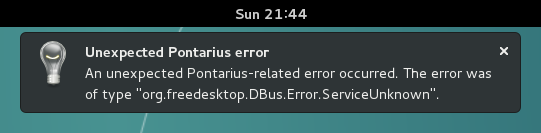
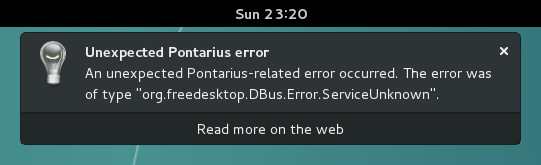
Add the possibility to open a web URL in the notification

diff --git a/extension/extension.js b/extension/extension.js
@@ -50,6 +50,9 @@ function enable() {
         // TODO: Catch notification proxy creation error.
         function (notifications) {
             _notifications = notifications;
+
+            _notifications.connectSignal('ActionInvoked', _onActionInvoked);
+
             // Initialize Pontarius D-Bus interface.
             // TODO: Catch notification proxy creation error.
             const PontariusInterface = '<node name="pontarius"><interface name="org.pontarius"><method name="addPeer"><arg name="jid" type="s" direction="in"/></method><method name="createIdentity"><arg name="key_id" type="ay" direction="out"/></method><method name="getContactIdentities"><arg name="contact" type="s" direction="in"/><arg name="identities" type="a{sas}" direction="out"/></method><method name="getContactPeers"><arg name="contact" type="s" direction="in"/><arg name="peers" type="a{sa{ss}}" direction="out"/></method><method name="getContacts"><arg name="contacts" type="a((ss)b)" direction="out"/></method><method name="getCredentials"><arg name="username" type="s" direction="out"/></method><method name="getIdentities"><arg name="identities" type="as" direction="out"/></method><method name="getIdentityChallenges"><arg name="key_id" type="s" direction="in"/><arg name="challenges" type="a(ssbsssb)" direction="out"/></method><method name="getSessionsByIdentity"><arg name="jid" type="s" direction="in"/><arg name="sessions" type="a(ayssssuu)" direction="out"/></method><method name="getSessionsByJID"><arg name="jid" type="s" direction="in"/><arg name="sessions" type="a(ayssssuu)" direction="out"/></method><method name="keyTrustStatus"><arg name="key_id" type="s" direction="in"/><arg name="is_trusted" type="b" direction="out"/></method><method name="getUnlinkedPeers"><arg name="unlinkedPeers" type="a{ss}" direction="out"/></method><method name="initialize"><arg name="state" type="y" direction="out"/></method><method name="initiateChallenge"><arg name="peer" type="s" direction="in"/><arg name="question" type="s" direction="in"/><arg name="secret" type="s" direction="in"/></method><method name="linkIdentity"><arg name="identity" type="s" direction="in"/><arg name="contact" type="s" direction="in"/></method><method name="identityVerified"><arg name="key_id" type="s" direction="in"/><arg name="is_verified" type="b" direction="in"/></method><method name="newContact"><arg name="name" type="s" direction="in"/><arg name="contact_id" type="s" direction="out"/></method><method name="removeChallenge"><arg name="challenge_id" type="s" direction="in"/></method><method name="removeContacts"><arg name="contact" type="s" direction="in"/></method><method name="removePeer"><arg name="peer" type="s" direction="in"/></method><method name="renameContact"><arg name="contact" type="s" direction="in"/><arg name="name" type="s" direction="in"/></method><method name="respondChallenge"><arg name="peer" type="s" direction="in"/><arg name="secret" type="s" direction="in"/></method><method name="revokeIdentity"><arg name="key_id" type="s" direction="in"/></method><method name="setCredentials"><arg name="username" type="s" direction="in"/><arg name="password" type="s" direction="in"/></method><method name="setIdentity"><arg name="keyID" type="s" direction="in"/></method><method name="unlinkIdentity"><arg name="identity" type="s" direction="in"/></method><signal name="challengeResult"><arg name="peer" type="s"/><arg name="challenge_id" type="s"/><arg name="initiator" type="s"/><arg name="result" type="b"/></signal><signal name="contactRemoved"><arg name="contact" type="s"/></signal><signal name="contactRenamed"><arg name="contact" type="s"/><arg name="name" type="s"/></signal><signal name="contactStatusChanged"><arg name="contact" type="s"/><arg name="contact_name" type="s"/><arg name="status" type="y"/></signal><signal name="identityStatusChanged"><arg name="identity" type="s"/><arg name="peer" type="s"/><arg name="contact" type="s"/><arg name="status" type="y"/></signal><signal name="identityUnlinkedSignal"><arg name="identity" type="s"/></signal><signal name="peerTrustStatusChanged"><arg name="peer" type="s"/><arg name="trust_status" type="b"/></signal><signal name="receivedChallenge"><arg name="peer" type="s"/><arg name="question" type="s"/></signal><signal name="subscriptionRequest"><arg name="peer" type="s"/></signal><signal name="unlinkedIdentityStatusChanged"><arg name="identity" type="s"/><arg name="peer" type="s"/><arg name="status" type="y"/></signal><property name="Identity" type="s" access="read"/><property name="Status" type="y" access="read"/><property name="AccountEnabled" type="b" access="readwrite"/><property name="Username" type="s" access="read"/></interface></node>';
@@ -78,20 +81,28 @@ function _onStatusChanged(result, error) {
         _state = result;
     }
     else {
-        var readMore = function (id) {
-            Util.spawn(['gvfs-open', 'https://www.pontarius.org/resources/' + id]);
-        };
-        readMore('hello');
         _notifications.NotifyRemote(
             'Pontarius',
             '',
             '',
             'Unexpected Pontarius error',
             'An unexpected Pontarius-related error occurred. The error was of type "' + Gio.DBusError.get_remote_error(error) + '".',
-            [], // ['article-617bf098-277d-40c2-8be2-8ca1d2cc959f', 'Read more on the web'],
+            ['article-617bf098-277d-40c2-8be2-8ca1d2cc959f', 'Read more on the web'],
             {},
             (-1)
         );
         log('Unexpected Pontarius error: ' + Gio.DBusError.get_remote_error(error));
     }
 }
+
+function _onActionInvoked(proxy, id, key) {
+    var openArticle = function (id) {
+        Util.spawn(['gvfs-open', 'https://www.pontarius.org/article/' + id]);
+    };
+
+    if(key[1] === 'article-617bf098-277d-40c2-8be2-8ca1d2cc959f') {
+        openArticle('617bf098-277d-40c2-8be2-8ca1d2cc959f');
+    } else {
+        log('Unhandled ActionInvoked signal: ' + key);
+    }
+};
